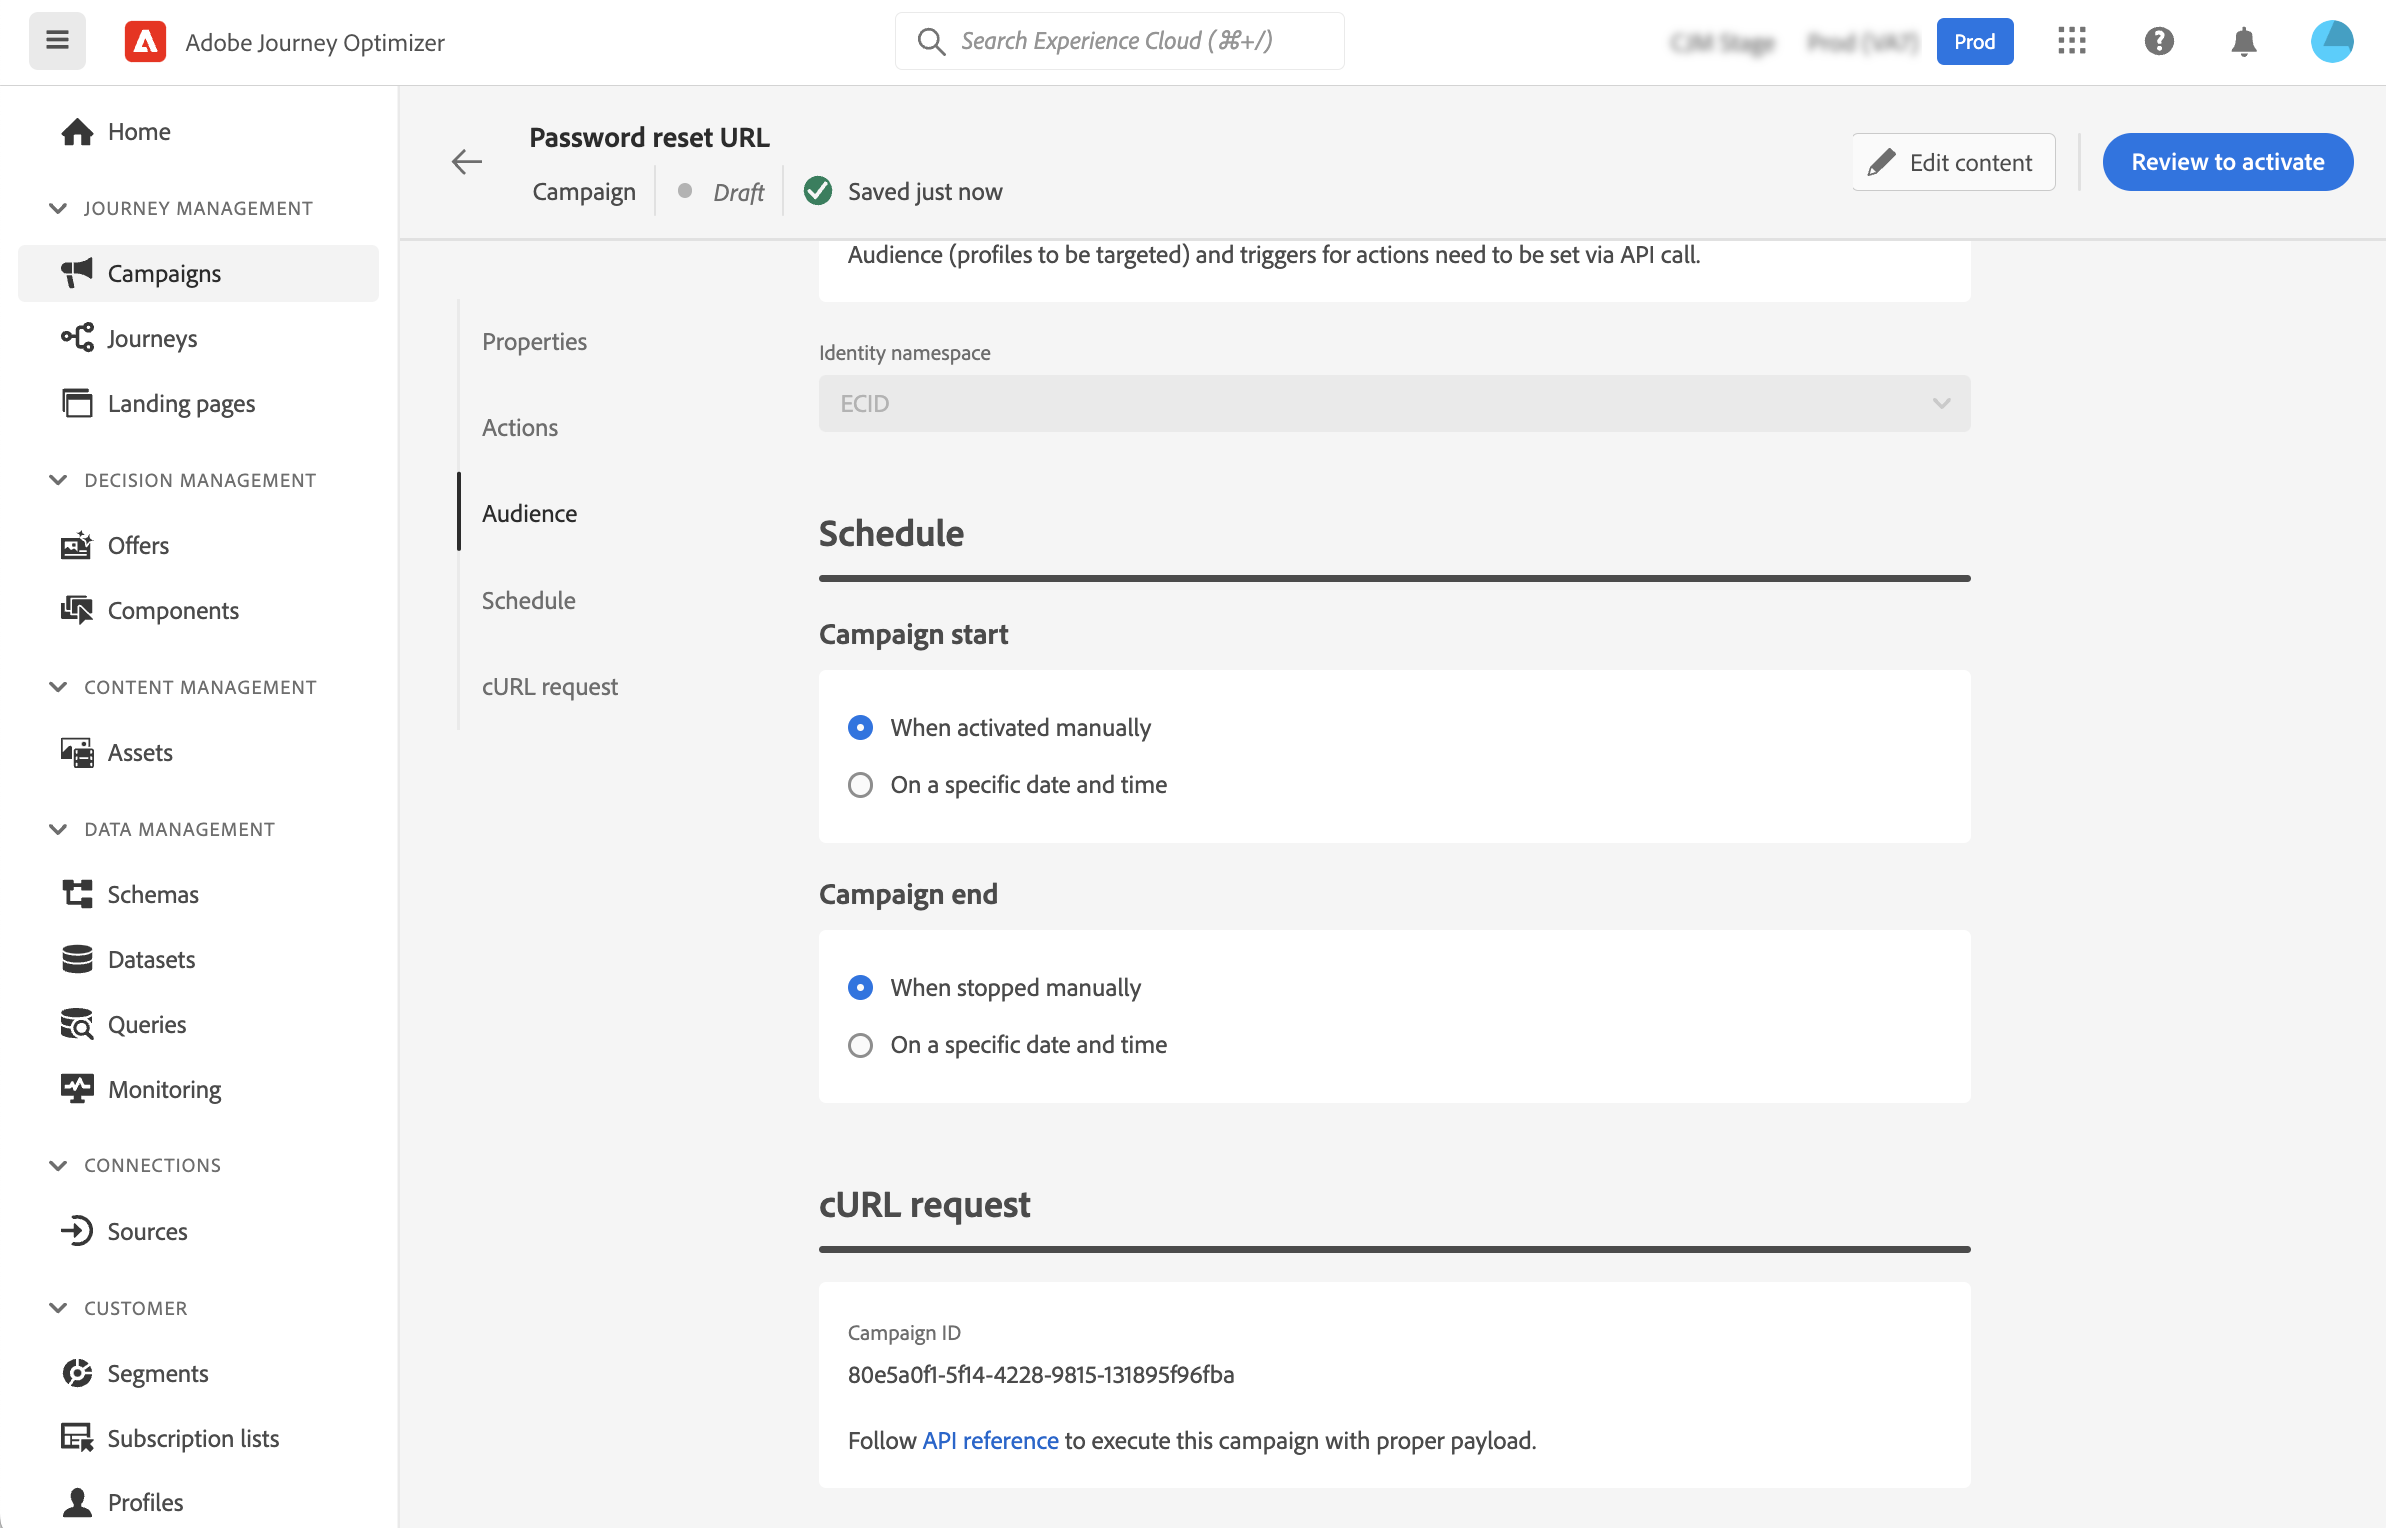
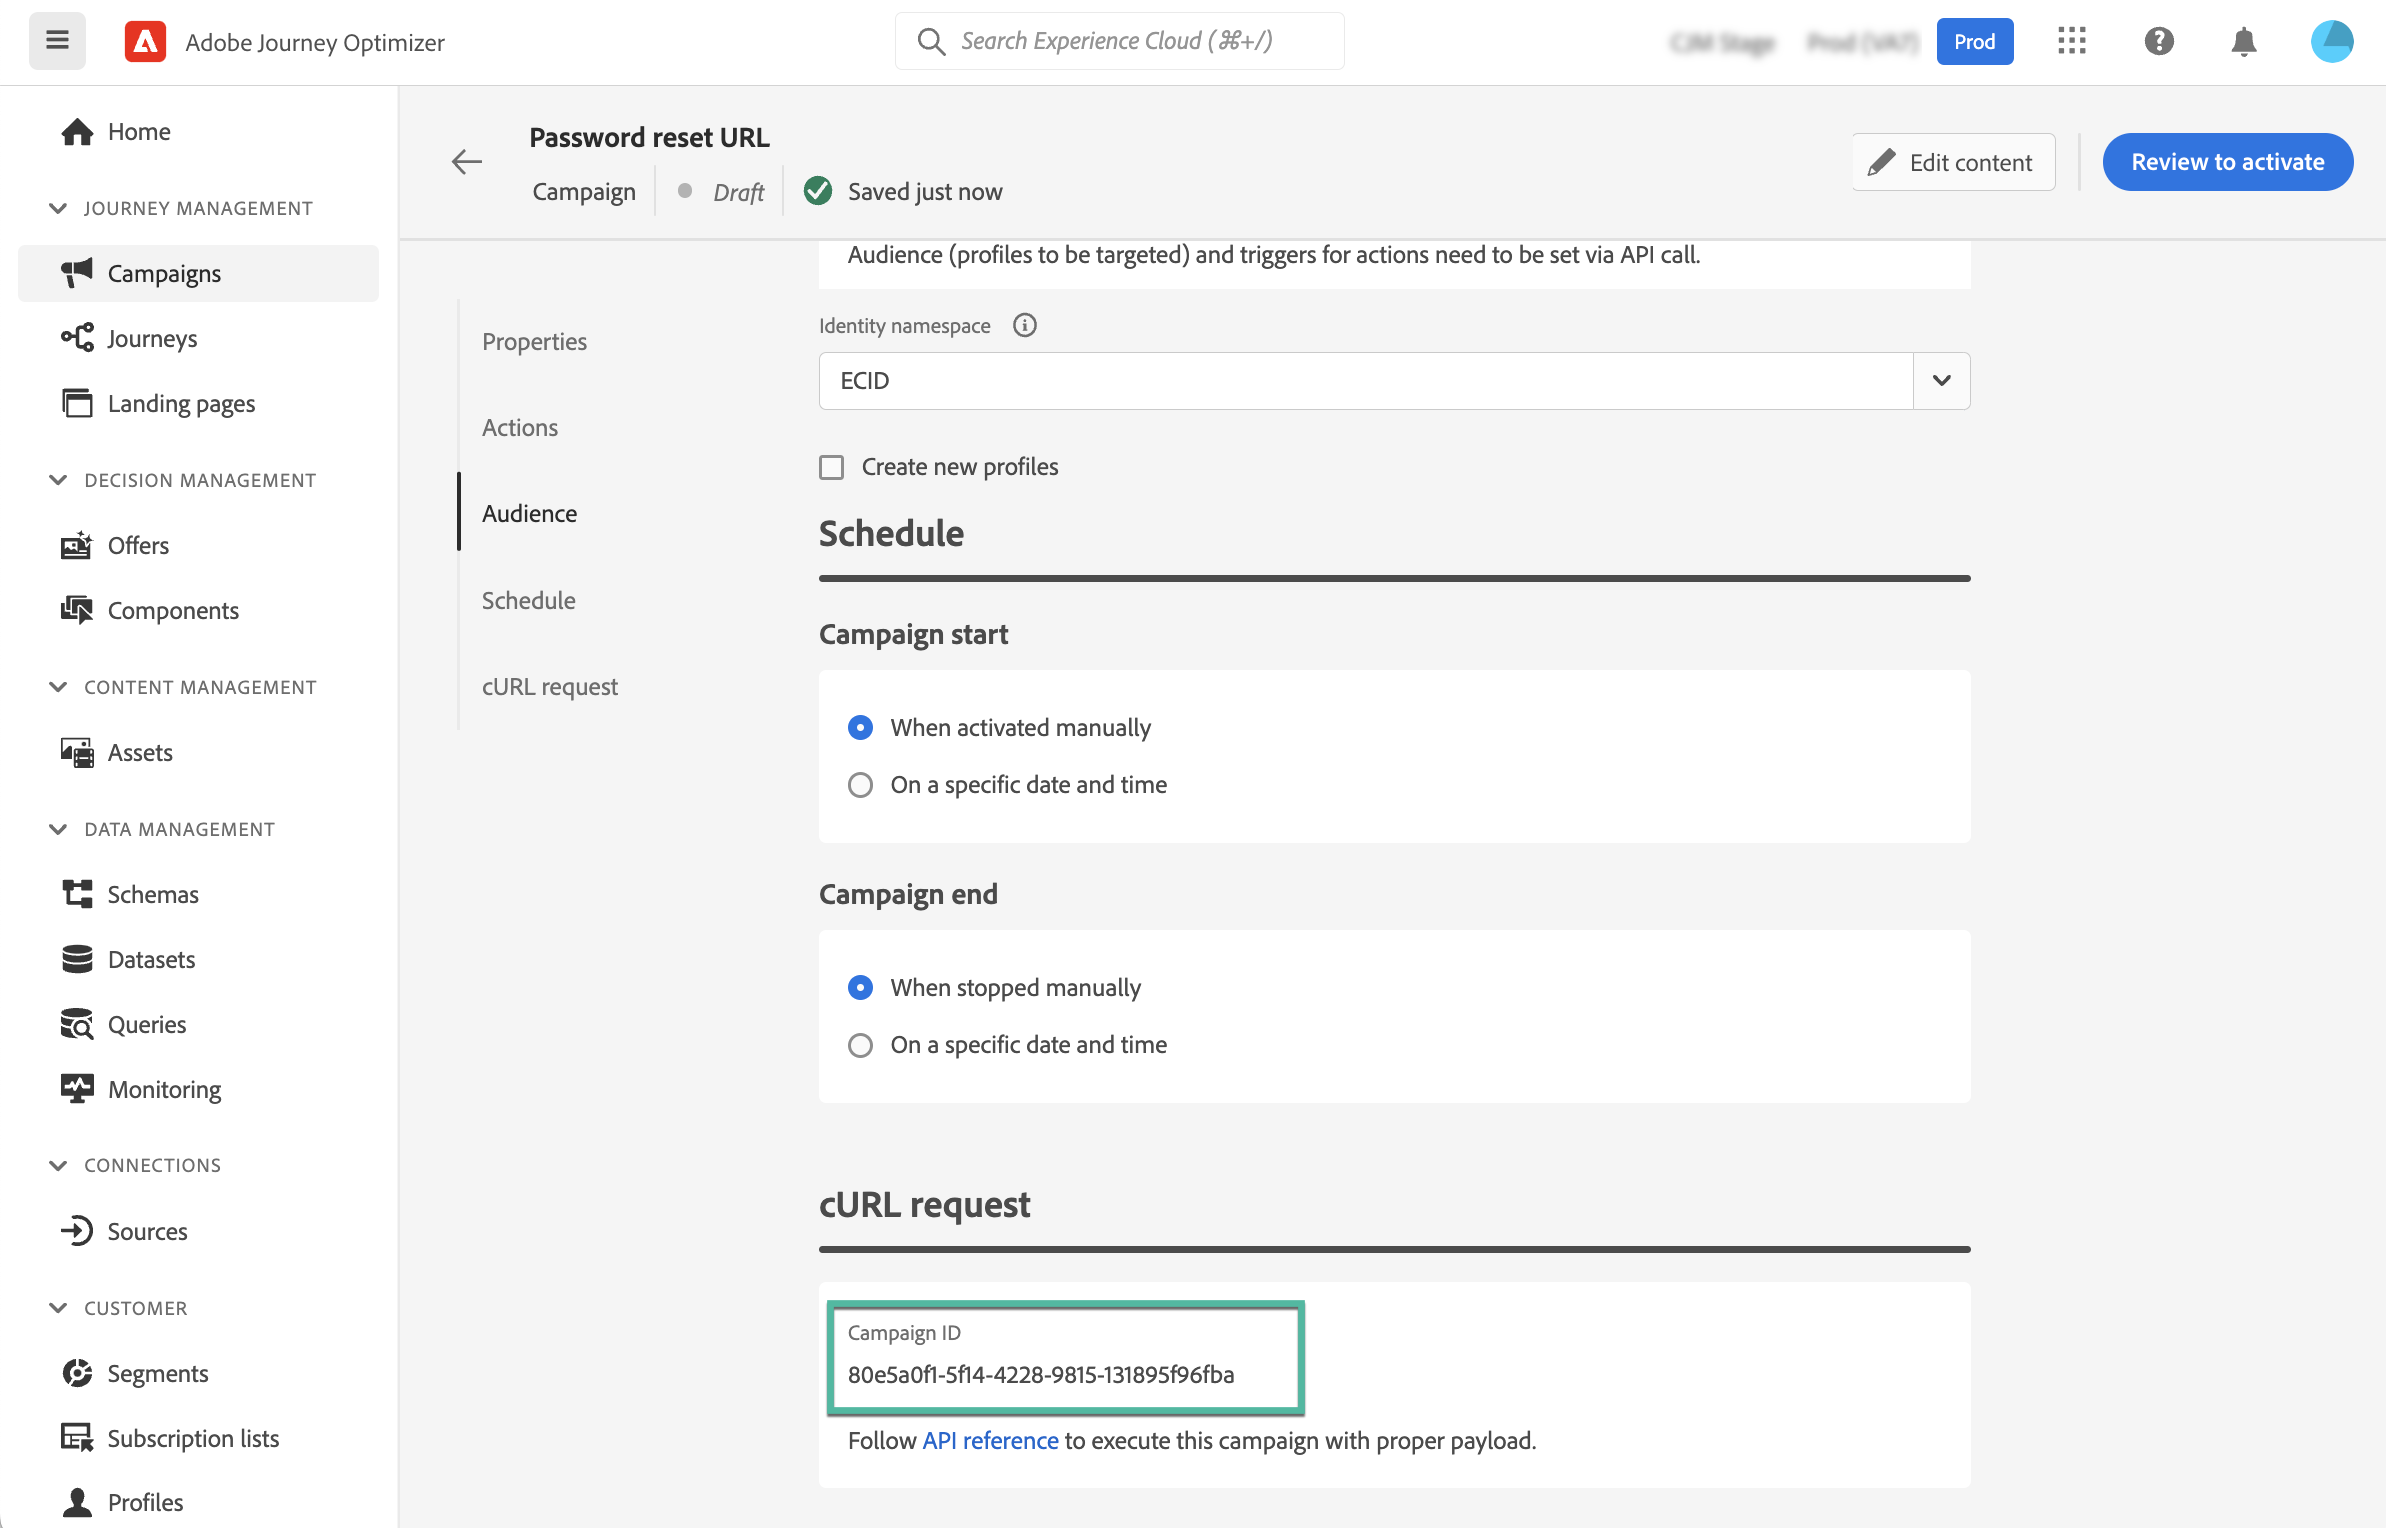
Api triggered ga (#997)
* dynamic content contextual help

* added hidden pages to toc

* Update channel-surfaces.md

* Update manage-suppression-list.md

* ATU-3357

* Reorg reporting (#987) (#988)

* Add list of components metrics

* update list metrics

* Update reports

* update experimentation report

* in progress

* add collapsible sections

* remove formula

* update screens

* Clean unused screens

* Update screens

* add sms sections

* update TOC

* update components

* correct build

* update list of components

* Olac ID

* OLAC feature (#989)

* OLAC feature

* Remove contextual help

* launch build

* Remove failed links (now there is a check)

* profile creation draft

* update

* fix

* typo

Changed region(s): [[0.3412, 0.8305, 0.5583, 0.9535], [0.3412, 0.2153, 0.4342, 0.2768], [0.4032, 0.2768, 0.4342, 0.3076]]

diff --git a/help/using/campaigns/api-triggered-campaigns.md b/help/using/campaigns/api-triggered-campaigns.md
@@ -1,17 +1,11 @@
 ---
 title: Trigger campaigns using APIs
 description: Learn how to trigger campaigns using [!DNL Journey Optimizer] APIs
-hide: yes
-hidefromtoc: yes
 exl-id: 0ef03d33-da11-43fa-8e10-8e4b80c90acb
 ---
 # Trigger campaigns using APIs {#trigger-campaigns}
 
 ## About API-triggered campaigns {#about}
-
->[!NOTE]
->
->The Interactive Message Execution API is currently in beta, which may be subject to frequent updates without notice.
 
 With [!DNL Journey Optimizer], you can create campaigns and then invoke them from an external system based on user trigger using the [Interactive Message Execution REST API](https://developer.adobe.com/journey-optimizer-apis/references/messaging/#tag/execution). This allows you to cover various operational and transactional messaging needs like password resets, OTP token, among others. 
 
@@ -39,7 +33,9 @@ To create an API-triggered campaign, follow these steps:
     >
     >You can pass additional data into the API payload that you can leverage to personalize your message. [Learn more](#contextual)
 
-1. Specify the namespace to use to identify the individuals from the segment.
+1. In the **[!UICONTROL Audience]** section, specify the namespace to use to identify the individuals from the segment.
+
+    The **[!UICONTROL Create new profiles]** option allows you to automatically create profiles that do not exist in the database. [Learn more on profile creation at campaign execution](#profile-creation)
 
 1. Configure the campaign's start and end dates. 
 
@@ -82,6 +78,16 @@ You can then use this ID into your API payload to trigger the campaign. Refer to
 
 Note that if you have configured a specific start and/or end date when creating the campaign, it will not be executed outside these dates, and API calls will fail.
 
+## Profile creation at campaign execution {#profile-creation}
+
+In some cases, you may need to send transactional messages to profiles that do not exist in the system. For example if an unknown user tries to login to your website.
+
+When a profile does not exist in the database, Journey Optimizer allows you to automatically create it when executing the campaign to allow sending the message to this profile.
+
+To do this, toggle the **[!UCONTROL Create new profiles]** option on in the **[!UICONTROL Audience]** section. 
+
+![](assets/api-triggered-create-profile.png)
+
 >[!NOTE]
 >
->In some cases, you may need to send transactional messages to profiles that do not exist in the system. For example if an unknown user tries to login to your website. In that case, the corresponding profile is automatically created into Adobe Experience Platform, in the **AJO Interactive Messaging Profile Dataset** dataset.
+>Unknown profiles are created in the **AJO Interactive Messaging Profile Dataset** dataset, in three default namespace (email, phone and ECID) respectively for each outbound channels (Email, SMS and Push).
